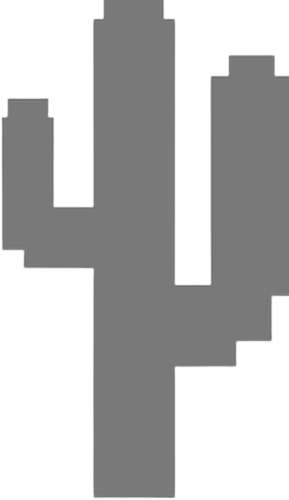
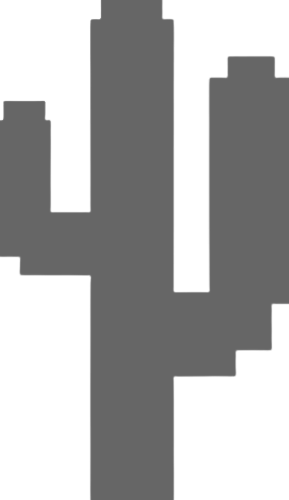
finished

diff --git a/script.js b/script.js
@@ -1,46 +1,64 @@
 const dino = document.getElementById("dino");
 const cactus = document.getElementById("cactus");
+const startScreen = document.getElementById("startScreen");
+const screen = document.getElementById("screen");
+var startButton = document.getElementById("startScreen");
 var scoreBoard = document.getElementById("score");
-var bestScore = document.getElementById("hi-score")
+var bestScore = document.getElementById("hi-score");
 var score = 0;
 var hiScore = 0;
 
 function jump() {
     if (dino.classList != "jump"){
         dino.classList.add("jump");
-
         setTimeout(function(){
             dino.classList.remove("jump");
-        }, 300); 
+        }, 250); 
     }    
 }
 
-function renderScore() {
-    scoreBoard.innerText = score;
-}
 function gameOver() {
     if (score > hiScore) {
         hiScore = score;
+        console.log("high score: " + hiScore);
         bestScore.innerText = hiScore;
         score = 0;
     }
+
+    cactus.classList.remove("cactusMove");
+    var subText = document.createElement("h4");
+    console.log("collusion");
+    startButton.childNodes[0].innerHTML = "Play Again?";
+    startButton.childNodes[0].appendChild(subText);
+    subText.innerHTML = "(click to play again)";
 }
 
-let isAlive = setInterval(function (){
-    renderScore();
+function renderScore() {
     score += 1;
-    let dinoTop = parseInt(
-        window.getComputedStyle(dino).getPropertyValue("top"));
-    let cactusLeft = parseInt(
-        window.getComputedStyle(cactus).getPropertyValue("left"));
+    scoreBoard.innerText = score;
+}
 
-    if (cactusLeft < 50 && cactusLeft > 0 && dinoTop >= 300){
-        console.log("collusion");
-        alert("GAME OVER!")
-        gameOver();
-    }
-}, 10);
+startButton.addEventListener("click", () => {
 
-document.addEventListener("keydown", function(event) {
-    jump();
-});
+    console.log("high score: " + hiScore);
+    startButton.childNodes[0].innerHTML = "";
+    
+    let isAlive = setInterval(function (){
+        console.log(score);
+        document.addEventListener("keydown", function(event) {
+            jump();
+        });
+        
+        cactus.classList.add("cactusMove");
+
+        renderScore();   
+
+        let dinoTop = parseInt(window.getComputedStyle(dino).getPropertyValue("top"));
+        let cactusLeft = parseInt(window.getComputedStyle(cactus).getPropertyValue("left"));
+        if (cactusLeft < 50 && cactusLeft > 0 && dinoTop >= 300){
+            gameOver();
+            clearInterval(isAlive);
+        }
+
+    }, 100);
+})

diff --git a/style.css b/style.css
@@ -4,11 +4,46 @@ body {
     text-transform: uppercase;
 }
 
+#title {
+    text-align: center;
+    font-size: 40px;
+    color: white;
+}
+
+#screen {
+    justify-content: center;
+    width: 100%;
+    height: 100%;
+    position: absolute;
+    margin-top: -611px;
+    display: flex;
+}
+
+#screen h3 {
+    text-align: center;
+    margin-top: 265px;
+    font-size: 100px;
+    opacity: 0.5;
+}
+
+#screen h4 {
+    text-align: center;
+    font-size: 20px;
+    opacity: 0.5;
+}
+
 .game {
-    width: 600px;
-    height: 400px;
-    border: 10px solid white;
+    width: 800px;
+    height: 500px;
+    border: 5px solid white;
     margin: auto;
+}
+
+.game hr {
+    border: none;
+    margin-top: 200px;
+    height: 2px;
+    background-color: #666666;
 }
 
 #dino {
@@ -30,37 +65,41 @@ body {
     height: 80px;
     position: relative;
     top: 220px;
-    left: 580px;
+    left: 760px;
     background-image: url(img/cactus.png);
     background-size: 40px 80px;
-    animation: block 1s infinite linear;
+}
+
+.cactusMove {
+    animation-play-state: running;
+    animation: block 1.7s infinite linear;
 }
 
 #score {
     width: 400px;
     margin: 4px auto;
     padding: 0;
-    background-color: white;
 }
 
 #hi-score {
     width: 200px;
     margin: 0px auto;
     padding: 0;
-    background-color: white;
 }
 
-#ScoreBoard:after {
-    clear: both;
-    display: block;
-    content: "";
+#ScoreBoard {
+    display: flex;
+    justify-content: space-between;
+    position: relative;
+    padding-top: 20px;
 }
 
 #ScoreBoard li {
+    color: white;
+    font-size: 20px;
+    margin: 10px;
+    margin-top: -190px;
     list-style: none;
-    box-sizing: border-box;
-    width: 65%;
-    padding: 20px;
     text-align: center;
     float: left;
 }
@@ -85,7 +124,7 @@ body {
 
 @keyframes block {
     0% {
-        left: 580px;
+        left: 760px;
     }
     100% {
         left: -10px;

diff --git a/index.html b/index.html
@@ -7,14 +7,21 @@
         <link rel = "stylesheet" href = "style.css" />
     </head>
     <body style="background-color:rgb(150, 212, 221);">
-        <div class =  "game">
-            <div id = "dino"></div>
-            <div id = "cactus"></div>
+        <div id = "window">
+            <h1 id = "title">Dinosaure Game</h1>
+            <div class =  "game">
+                <div id = "dino"></div>
+                <div id = "cactus"></div>
+                <nav id = "ScoreBoard">
+                    <li>Score: <span id = "score">0</span></li>
+                    <li>Hihg Score: <span id = "hi-score">0</span></li>
+                </nav>
+                <hr>
+            </div>
+            <div id = "screen">
+                <div id = "startScreen"><h3>Click to start</h3></div>
+            </div>
         </div>
-        <ui id = "ScoreBoard">
-            <li>Score: <span id = "score">0</span></li>
-            <li>Hihg Score: <span id = "hi-score">0</span></li>
-        </ui>
         <script src = "script.js"></script>
     </body>
 </html>
